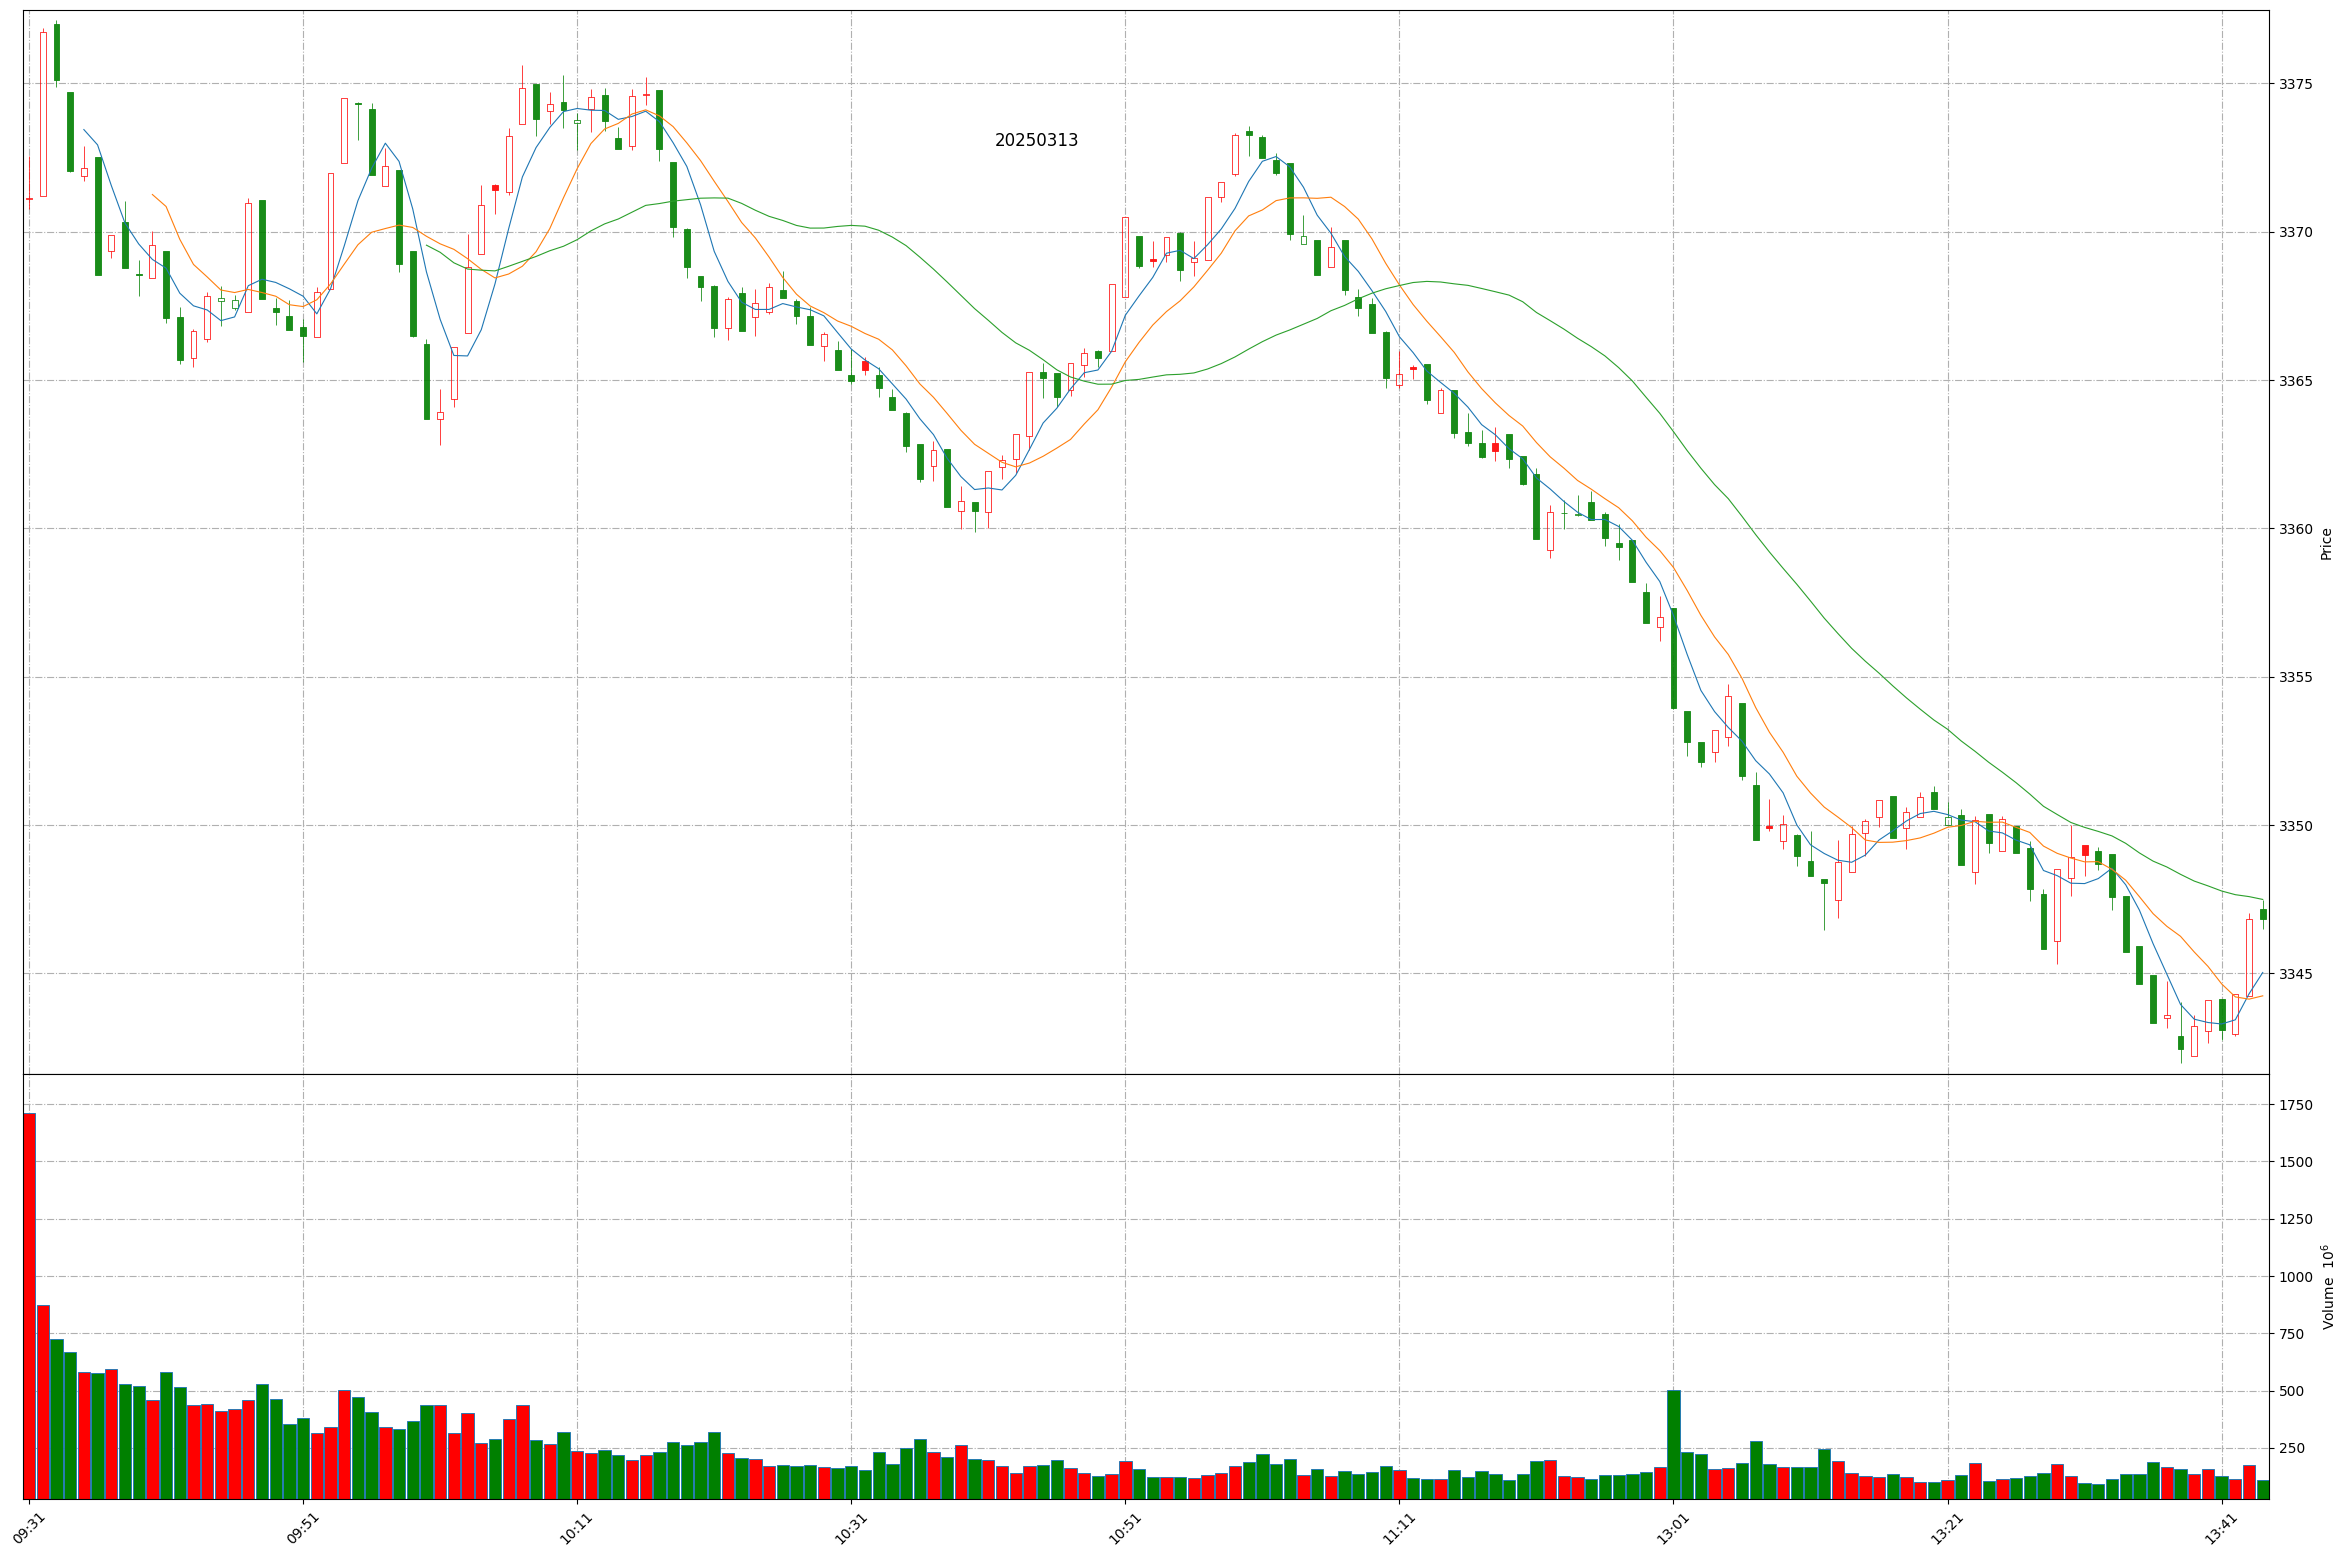
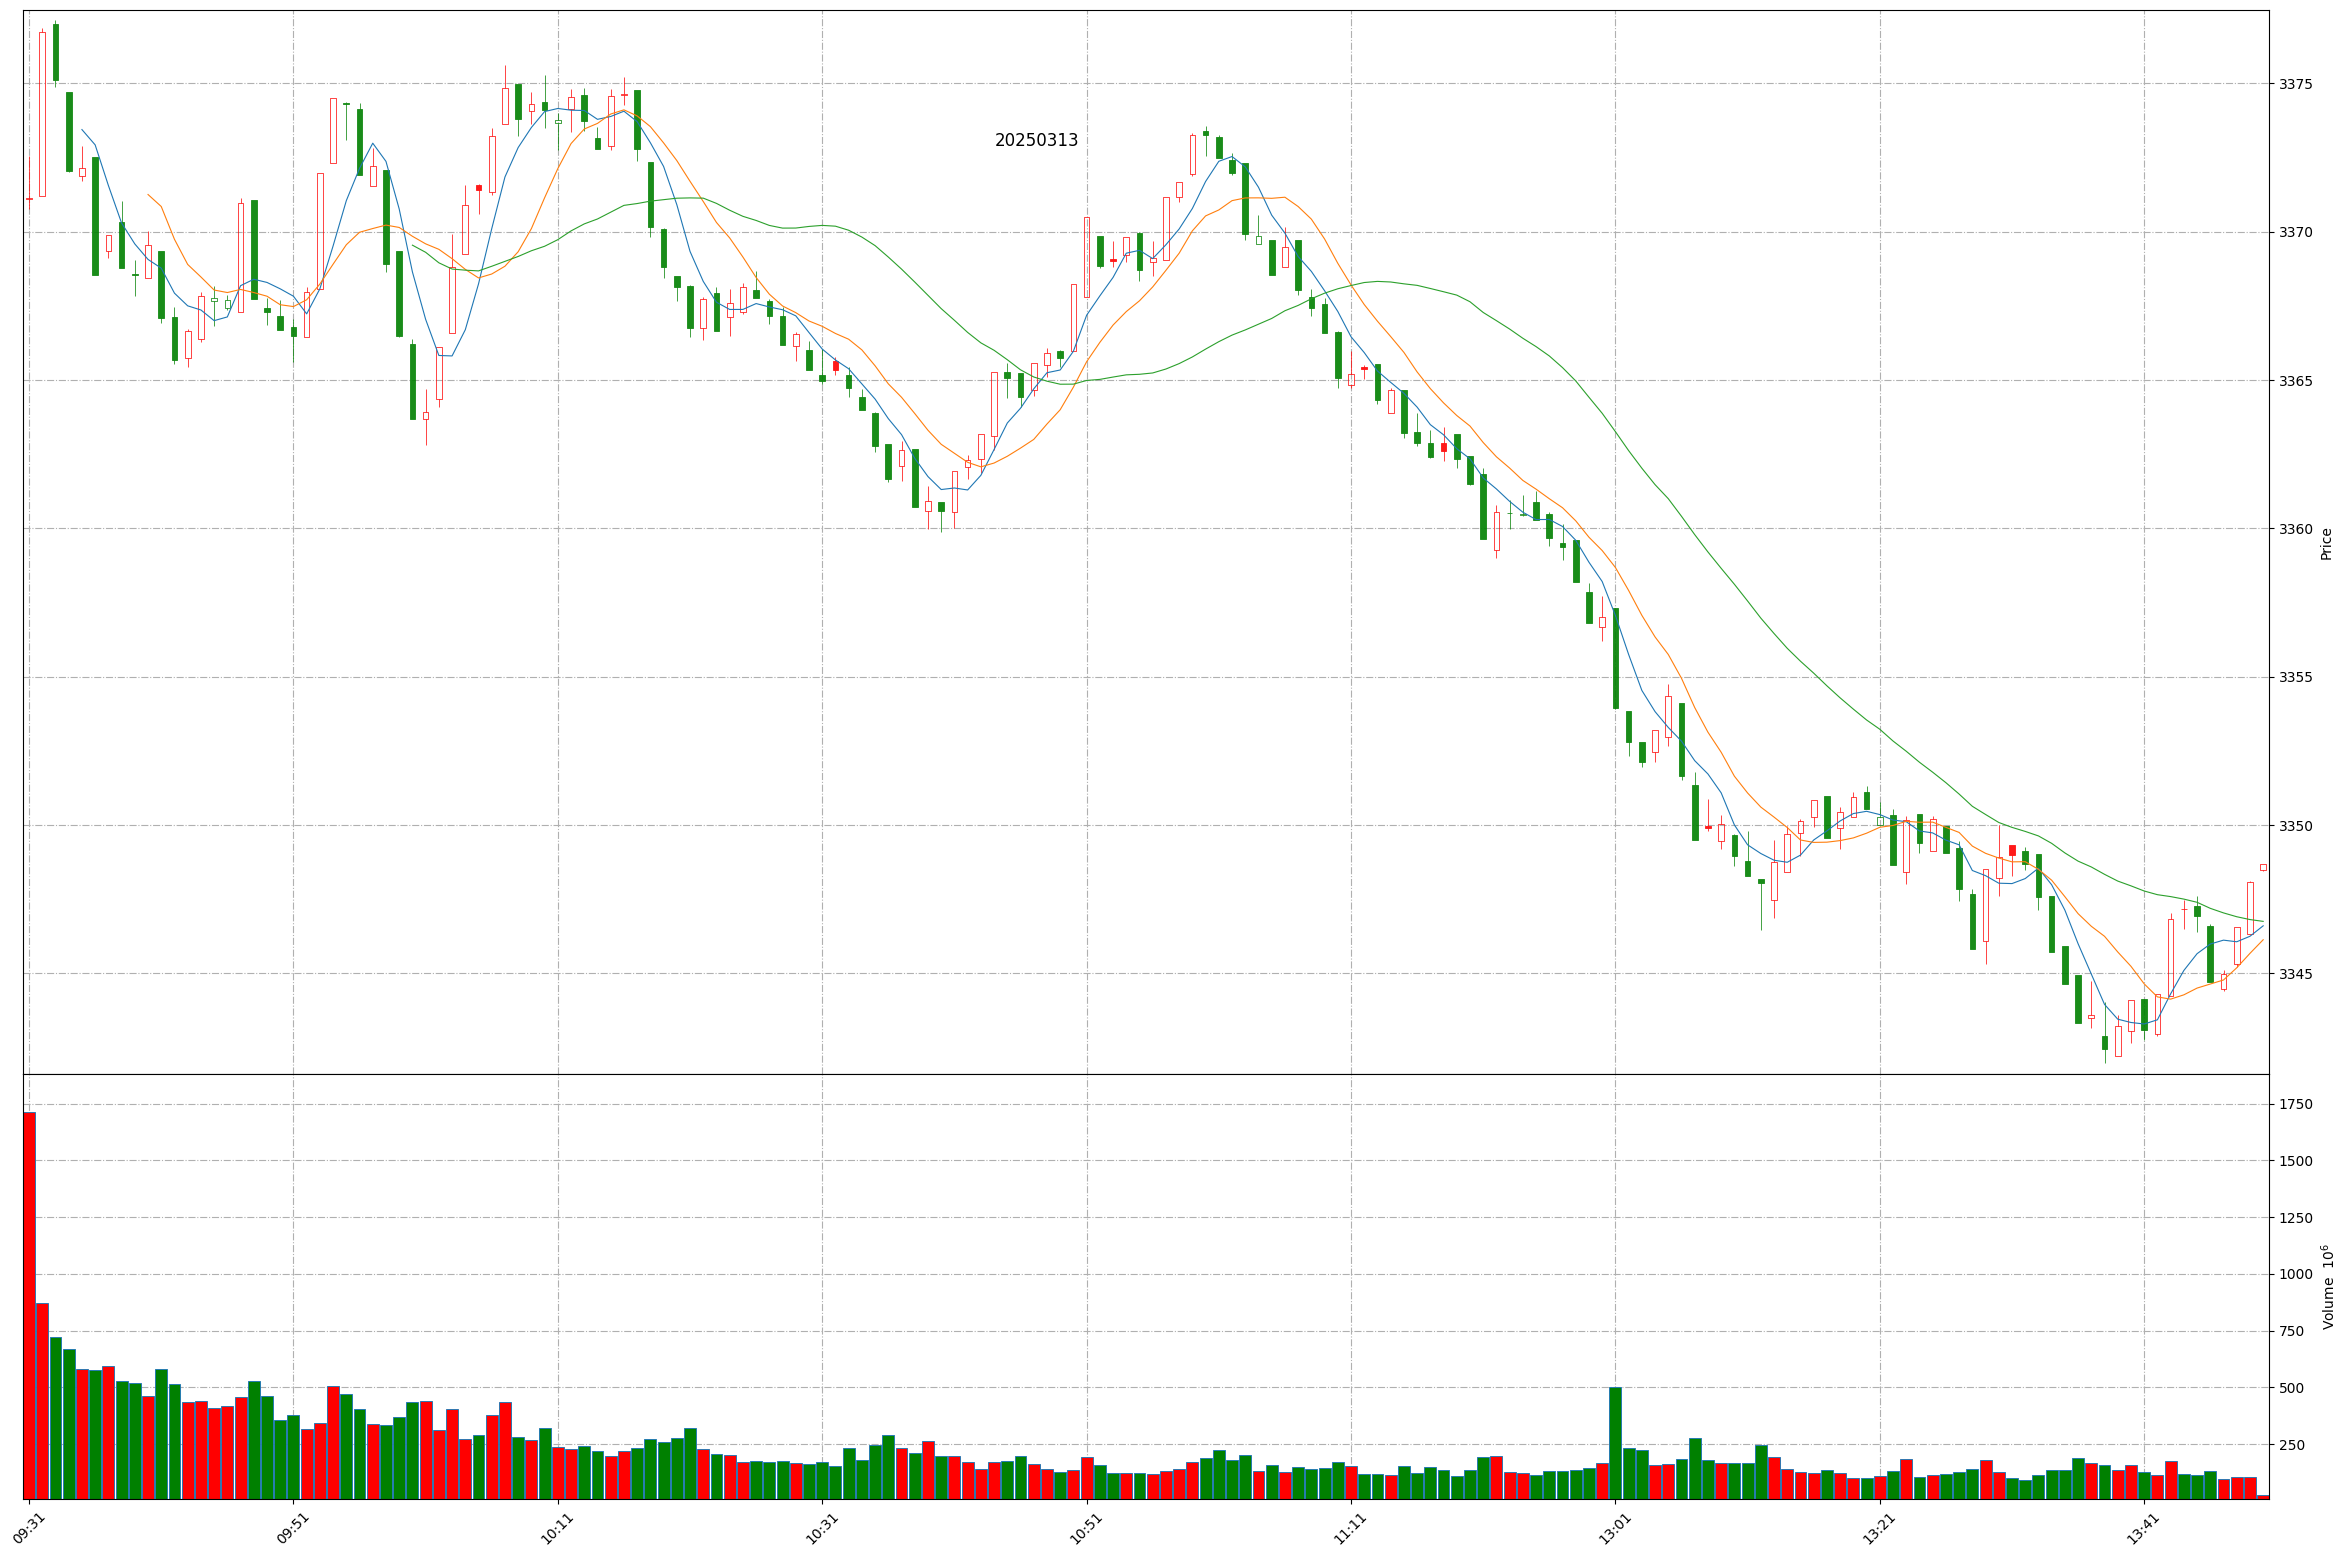
Github action update at 2025-03-13 13:49:28.

diff --git a/README.md b/README.md
@@ -1,11 +1,11 @@
 
 # Daily-A-share-market-quotes 每日 A 股指数（5min 更新）- 20250313
 
-### 上证指数 20250313 13:44
+### 上证指数 20250313 13:49
 ![](./fig/2025/3/20250313-sh000001.png)
 
-### 深证成指 20250313 13:44
+### 深证成指 20250313 13:49
 ![](./fig/2025/3/20250313-sz399001.png)
 
-### 北证50 20250313 13:44
+### 北证50 20250313 13:49
 ![](./fig/2025/3/20250313-bj899050.png)
